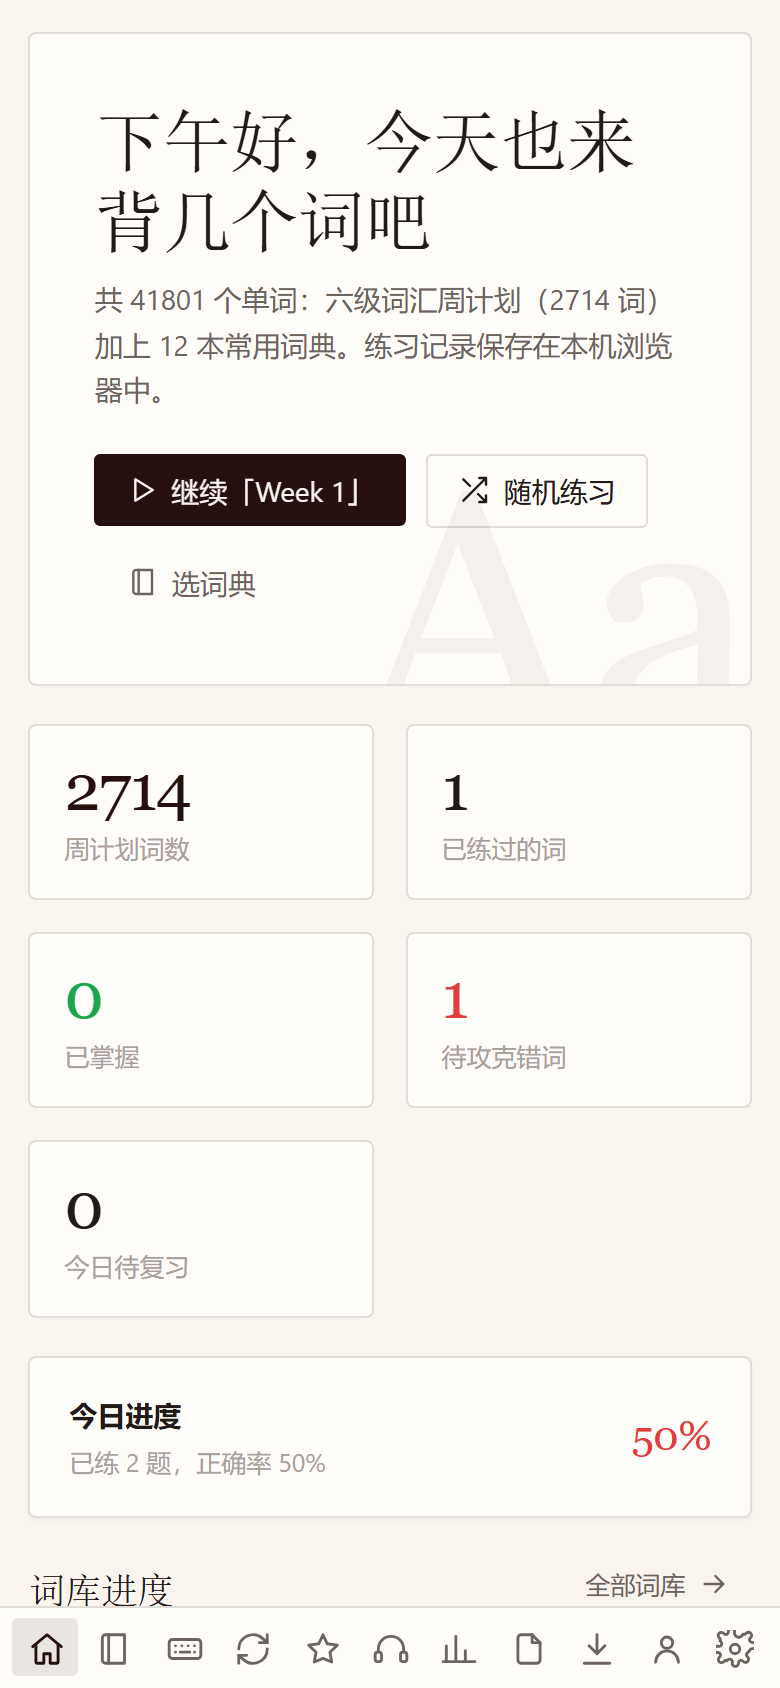
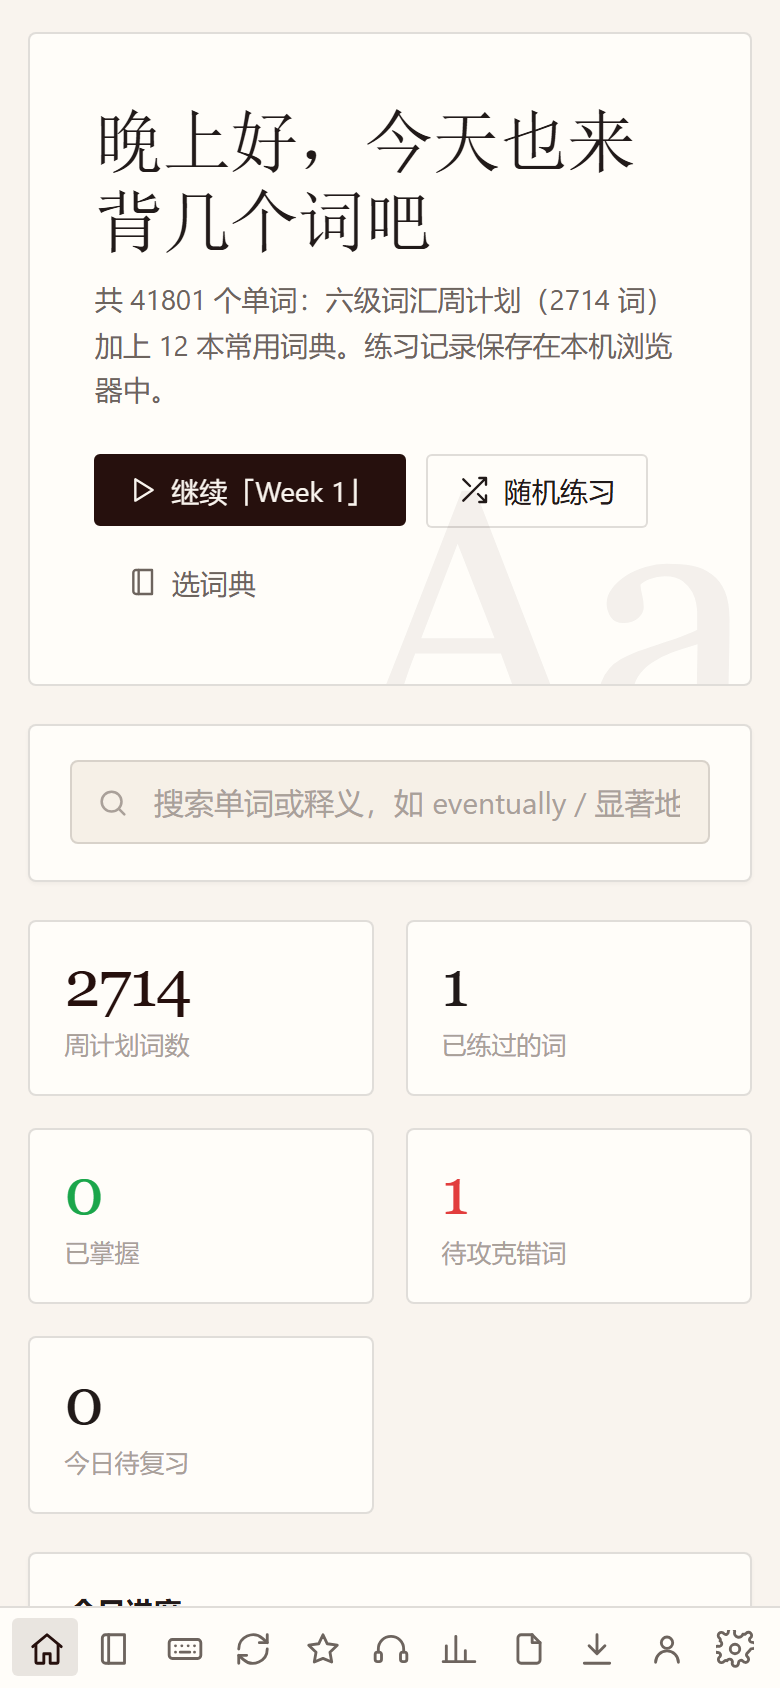
首页搜词：实时联想 + 释义中文搜索 + dict-ext 精确兜底，点击/回车直达详解
- data.js 新增 searchAll（周计划 + 已加载词典，命中单词或释义，前缀优先，最多 8 条）
- 首页 hero 下加搜索卡：220ms 防抖联想，每条显示 单词/音标/首条释义/来源
- 联想没有时走 dict-ext.js 全量键值精确兜底（带词形还原 studies→study），中文输入不兜底
- 回车打开第一条结果；Esc 清空；点击条目跳 #/word?w= 看完整词典卡
- 样式沿用 Lenval 令牌（--card-2 输入底、4px 圆角、mono 词面）；verify_site 新增 10 项断言（106/106）

diff --git a/assets/js/views/home.js b/assets/js/views/home.js
@@ -61,6 +61,17 @@
           '</div>' +
         '</div>' +
 
+        /* ---- 首页搜词（sunfleeting：在首页就能搜出单词的意思）----
+           联想：周计划 + 已加载词典（searchAll，命中单词或释义，前缀优先）；
+           联想没有 → dict-ext.js 全量键值精确兜底（带词形还原），点击进详解页看完整词典卡。 */
+        '<div class="card card-pad hs-card" style="margin-bottom:1.2rem">' +
+          '<div class="hs-box">' +
+            TW.icon('search', 17) +
+            '<input id="hs-input" type="text" placeholder="搜索单词或释义，如 eventually / 显著地" autocomplete="off" spellcheck="false">' +
+          '</div>' +
+          '<div id="hs-res" class="hs-res" hidden></div>' +
+        '</div>' +
+
         (srs.due
           ? '<div class="card card-pad srs-callout" style="margin-bottom:1.2rem">' +
               '<div class="row" style="justify-content:space-between">' +
@@ -100,6 +111,80 @@
 
     TW.$$('.book-card', host).forEach(function (el) {
       el.addEventListener('click', function () { TW.app.go('/books?book=' + el.dataset.book); });
+    });
+
+    /* ---------- 首页搜词 ---------- */
+    var input = TW.$('#hs-input', host);
+    var resBox = TW.$('#hs-res', host);
+    var hsTimer = null;
+
+    function hsHide() { resBox.hidden = true; resBox.innerHTML = ''; }
+
+    function hsGo(word) {
+      hsHide();
+      input.value = word;
+      input.blur();
+      TW.app.go('/word?w=' + encodeURIComponent(word));
+    }
+
+    function hsItem(w) {
+      var phon = w.us ? '<span class="hs-phon">/' + TW.esc(w.us) + '/</span>' : '';
+      return '<button class="hs-item" data-w="' + TW.esc(w.word) + '">' +
+        '<span class="hs-word">' + TW.esc(w.word) + '</span>' + phon +
+        '<span class="hs-brief">' + TW.esc(TW.data.brief(w)) + '</span>' +
+        '<span class="hs-src">' + (w.deck ? '词典' : '周计划') + '</span>' +
+      '</button>';
+    }
+
+    function hsShow(list, q) {
+      resBox.innerHTML = list.length
+        ? list.map(hsItem).join('')
+        : '<div class="hs-empty">词库里没有「' + TW.esc(q) + '」</div>';
+      resBox.hidden = false;
+      TW.$$('.hs-item', resBox).forEach(function (el) {
+        el.addEventListener('click', function () { hsGo(el.dataset.w); });
+      });
+    }
+
+    function hsExtHit(q) {
+      var cands = TW.data.baseForms(q);          // 词形还原：studies → study
+      for (var i = 0; i < cands.length; i++) {
+        var e = TW.data.ext(cands[i]);
+        if (e) {
+          hsShow([{ word: cands[i], raw: cands[i], us: e.u || '', trans: e.t || [], deck: true }], q);
+          return;
+        }
+      }
+      hsShow([], q);
+    }
+
+    function hsRun(q) {
+      q = (q || '').trim();
+      if (!q) { hsHide(); return; }
+      var list = TW.data.searchAll(q, 8);
+      if (list.length) { hsShow(list, q); return; }
+      // 联想没有 → 只对「像英文单词的输入」走 dict-ext 精确兜底（中文释义搜不了全量键值）
+      if (!/^[a-zA-Z][a-zA-Z' -]*$/.test(q)) { hsShow([], q); return; }
+      if (TW.data.extReady()) { hsExtHit(q); return; }
+      resBox.innerHTML = '<div class="hs-empty">正在加载词典…</div>';
+      resBox.hidden = false;
+      TW.data.loadDictExt(function () {
+        if (input.value.trim() !== q) return;    // 加载期间用户已改输入
+        hsExtHit(q);
+      });
+    }
+
+    input.addEventListener('input', function () {
+      clearTimeout(hsTimer);
+      hsTimer = setTimeout(function () { hsRun(input.value); }, 220);
+    });
+    input.addEventListener('keydown', function (e) {
+      if (e.key === 'Enter') {
+        var first = TW.$('.hs-item', resBox);
+        if (first) first.click();                // 回车 = 打开第一条结果
+      } else if (e.key === 'Escape') {
+        input.value = ''; hsHide(); input.blur();
+      }
     });
 
     var cont = TW.$('#btn-continue', host);

diff --git a/assets/css/style.css b/assets/css/style.css
@@ -412,8 +412,7 @@ select.field { cursor: pointer; }
 .word-display.blur { filter: blur(9px); user-select: none; }
 .word-display.fuzzy { color: transparent; text-shadow: 0 0 14px var(--text-3); user-select: none; }
 
-.typing-box { position: relative; width: min(680px, 100%); }
-.typing-input {
+.typing-box { position: relative; width: min(680px, 100%); }.typing-input {
   width: 100%;
   font-family: var(--mono);
   font-size: clamp(1.4rem, 3.6vw, 2.1rem);
@@ -1160,3 +1159,44 @@ a.star-btn { display: inline-flex; align-items: center; justify-content: center;
 #app { transform-origin: 50% 46vh; }
 .intro-zoom #app { animation: intro-zoom-app 1.05s cubic-bezier(0.65, 0, 0.35, 1) both; }
 @keyframes intro-zoom-app { from { transform: scale(0.62); } to { transform: scale(1); } }
+
+/* ---------- 首页搜词（hs-）---------- */
+.hs-box {
+  display: flex; align-items: center; gap: 0.6rem;
+  color: var(--text-3);
+  border: 1px solid var(--line);
+  border-radius: var(--radius);
+  background: var(--card-2);
+  padding: 0.55rem 0.8rem;
+  transition: border-color var(--anim);
+}
+.hs-box:focus-within { border-color: var(--accent); color: var(--text-2); }
+.hs-box svg { flex: none; }
+.hs-box input {
+  flex: 1; min-width: 0;
+  border: none; background: transparent; outline: none;
+  color: var(--text); font-size: 15px;
+}
+.hs-box input::placeholder { color: var(--text-3); }
+
+.hs-res { margin-top: 0.6rem; display: flex; flex-direction: column; }
+.hs-res[hidden] { display: none; }
+.hs-item {
+  display: flex; align-items: baseline; gap: 0.6rem;
+  width: 100%; text-align: left;
+  padding: 0.55rem 0.7rem;
+  border: none; border-radius: var(--radius-sm);
+  background: transparent; cursor: pointer;
+  color: var(--text);
+  transition: background 0.18s;
+}
+.hs-item:hover, .hs-item:focus-visible { background: var(--accent-2); }
+.hs-word { font-family: var(--mono); font-size: 15px; font-weight: 600; flex: none; }
+.hs-phon { font-family: var(--mono); font-size: 12.5px; color: var(--text-3); flex: none; }
+.hs-brief {
+  flex: 1; min-width: 0;
+  font-size: 13.5px; color: var(--text-2);
+  white-space: nowrap; overflow: hidden; text-overflow: ellipsis;
+}
+.hs-src { flex: none; font-size: 11px; color: var(--text-3); border: 1px solid var(--line-soft); border-radius: var(--radius-sm); padding: 0.05rem 0.35rem; }
+.hs-empty { padding: 0.55rem 0.7rem; font-size: 13.5px; color: var(--text-3); }

diff --git a/assets/js/data.js b/assets/js/data.js
@@ -146,6 +146,29 @@
 
   function search(q) { return searchIn(WORDS, q); }
 
+  /** 首页搜索：在「周计划 + 已加载的词典」里做包含匹配（命中单词或释义）。
+      词典是懒加载的，所以这里只搜已加载的部分（主词书永远在）；
+      剩下的精确查词由 extWord（dict-ext.js 全量键值）兜底，见首页搜索的实现。
+      排序：前缀命中优先（event → eventually 在前），其余保持词表顺序；最多 cap 条。 */
+  function searchAll(q, cap) {
+    q = (q || '').trim().toLowerCase();
+    if (!q) return [];
+    cap = cap || 8;
+    var pool = WORDS.slice();
+    Object.keys(DECK_WORDS).forEach(function (id) { pool = pool.concat(DECK_WORDS[id]); });
+    var seen = {}, pre = [], mid = [];
+    for (var i = 0; i < pool.length; i++) {
+      var w = pool[i], k = String(w.word).toLowerCase();
+      if (seen[k]) continue;
+      seen[k] = 1;
+      var hit = k.indexOf(q);
+      if (hit === 0) pre.push(w);
+      else if (hit > 0) mid.push(w);
+      else if (w.trans && w.trans.join(' ').toLowerCase().indexOf(q) >= 0) mid.push(w);
+    }
+    return pre.concat(mid).slice(0, cap);
+  }
+
   /** 按学习状态汇总「所有来源」的词（周计划 + 已练过的词典词）
    *  词典是懒加载的，所以不在词表里的记录回退到进度快照（只有单词与一条简释）。
    *  tab: wrong | fav | master | all(已练过) */
@@ -292,6 +315,7 @@
     brief: brief,
     parseTrans: parseTrans,
     search: search,
+    searchAll: searchAll,
     searchIn: searchIn,
     progressItems: progressItems,
     filterByStatus: filterByStatus,

diff --git a/tools/verify_site.py b/tools/verify_site.py
@@ -101,6 +101,55 @@ def main():
         total_count = pg.evaluate("() => TW.BOOKS.reduce((a,b)=>a+b.count,0)")
         check("各书 count 之和 = 2714", total_count, 2714)
 
+        # ---------- 首页搜词 ----------
+        # 联想 = 周计划 + 已加载词典（searchAll，前缀优先）；精确兜底 = dict-ext 全量键值
+        log("\n--- 首页搜词：联想 / 中文搜释义 / ext 兜底 / 回车直达 ---")
+        goto("#/")
+        check("首页有搜索框", pg.locator("#hs-input").count(), 1)
+
+        pg.fill("#hs-input", "event")
+        pg.wait_for_timeout(650)                      # 220ms 防抖 + 渲染
+        res = pg.evaluate("() => Array.from(document.querySelectorAll('.hs-item')).map(b => b.dataset.w)")
+        check("输入 event 出现联想结果", len(res) > 0, True, extra=str(res[:5]))
+        check("联想含 eventually", "eventually" in res, True, extra=str(res[:5]))
+        check("结果条带释义", pg.evaluate(
+            "() => (document.querySelector('.hs-item .hs-brief')||{textContent:''}).textContent.length > 0"), True)
+
+        pg.click(".hs-item")
+        pg.wait_for_timeout(1600)                     # 详解按需加载 dict.js
+        check("点击联想结果跳详解页", "#/word?w=" in pg.evaluate("() => location.hash"), True)
+        check("详解页渲染出来", pg.locator("#dc-back").count() > 0, True)
+
+        goto_fresh("#/")
+        pg.fill("#hs-input", "使")
+        pg.wait_for_timeout(650)
+        res2 = pg.evaluate("() => Array.from(document.querySelectorAll('.hs-item')).map(b => b.dataset.w)")
+        check("中文搜释义「使」出结果", len(res2) > 0, True, extra=str(res2[:5]))
+
+        # ext 兜底：选一个不在周计划里的词（词库没加载任何 deck 时 searchAll 搜不到）
+        ext_word = pg.evaluate("""() => {
+          const k = Object.keys(TW.DICT_EXT || {})[0];          // dict-ext 第一个键（如 abash）
+          return (k && !TW.data.byWord(k)) ? k : null;
+        }""")
+        if ext_word:
+            pg.fill("#hs-input", ext_word)
+            pg.wait_for_timeout(2000)                 # 首次要拉 dict-ext.js（约 1MB）
+            res3 = pg.evaluate("() => Array.from(document.querySelectorAll('.hs-item')).map(b => b.dataset.w)")
+            check("dict-ext 精确兜底命中「%s」" % ext_word, res3, [ext_word], extra=str(res3))
+        else:
+            check("dict-ext 兜底（跳过：首页词表已覆盖全部键）", True, True)
+
+        pg.fill("#hs-input", "zzqqxx")
+        pg.wait_for_timeout(700)
+        check("乱码显示「词库里没有」", pg.evaluate(
+            "() => { const e = document.querySelector('.hs-empty'); return e ? e.textContent.indexOf('zzqqxx') >= 0 : false; }"), True)
+
+        pg.fill("#hs-input", "eventually")
+        pg.wait_for_timeout(650)
+        pg.keyboard.press("Enter")
+        pg.wait_for_timeout(1400)
+        check("回车直达第一条详解", "#/word?w=eventually" in pg.evaluate("() => location.hash"), True)
+
         # ---------- 导航 ----------
         goto("#/")
         nav_n = pg.locator(".nav-item").count()
